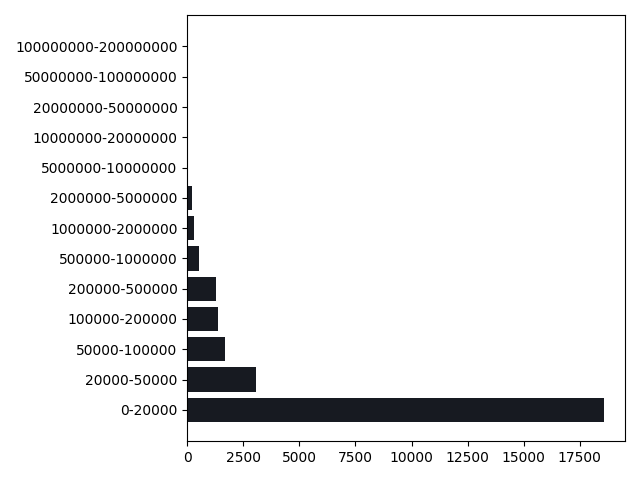
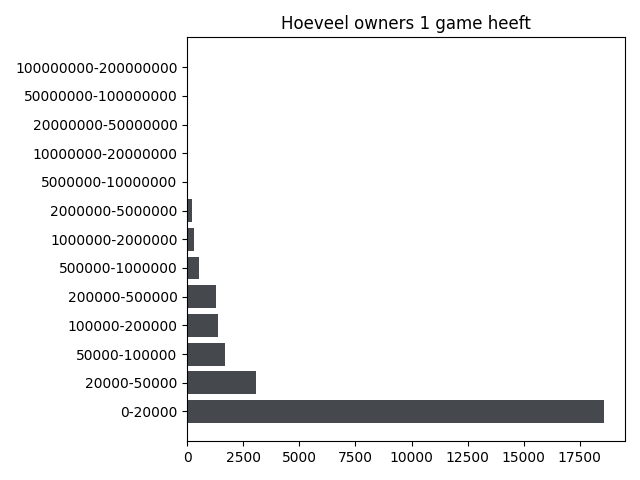
merge sort

Changed region(s): [[0.0312, 0.0625, 0.9688, 0.9062], [0.4375, 0.0312, 0.8438, 0.0625]]

diff --git a/Steam Data Dashboard.py b/Steam Data Dashboard.py
@@ -4,35 +4,34 @@ import matplotlib.pyplot as plt
 from PIL import ImageTk, Image
 
 Owners = fc.frequentieOwner(fc.list_int('owners'))
-plt.barh(list(Owners.keys()), Owners.values(), color='#171a21')
+plt.barh(list(Owners.keys()), Owners.values(), color='#171a21', alpha=0.8)
+plt.title('Hoeveel owners 1 game heeft')
 plt.tight_layout()
 plt.savefig('grafiekowner.png', dpi=100)
 
 def FreqOwner():
+    destroy()
     display.delete(1.0, END)
     Owners = fc.frequentieOwner(fc.list_int('owners'))
     for key, value in Owners.items():
-        display.insert(END, f'''{key} -> {value} \n''')
+        display.insert(END, f'''   {key} -> {value} \n''')
 
 def FreqLeeftijd():
+    destroy()
     display.delete(1.0, END)
     Leeftijd = fc.frequentieLeeftijd(fc.list_int('required_age'))
     for key, value in Leeftijd.items():
-        display.insert(END, f'''{key} -> {value} \n''')
-
-def open_imgleeftijd():
-    DestroyButton.place(x=50, y=550, width=200)
+        display.insert(END, f'''  {key} -> {value} \n''')
 
 def open_imgowner():
     panel.place(x=250, y=85)
-    DestroyButton.place(x=50, y=550, width=200)
 
 def destroy():
     panel.place_forget()
-    DestroyButton.place_forget()
 
 
 def search():
+    destroy()
     display.delete(1.0, END)
     zoekwoord = str(Search.get())
     naamlijst = (fc.search_data(zoekwoord))
@@ -56,34 +55,40 @@ Negatieve reviews: {data[7]} \n
 
 
 def toonOwners():
+    destroy()
     display.delete(1.0, END)
-    sortedlist = fc.insertionSort(fc.list_data('owners'))
+    sortedlist = fc.mergeSort(fc.list_data('owners'))
     for index in sortedlist:
         display.insert(END, f'''{index[0]} - {index[1]}\n''')
 
 def toonPrijs():
+    destroy()
     display.delete(1.0, END)
-    sortedlist = fc.insertionSort(fc.list_data('price'))
+    sortedlist = fc.mergeSort(fc.list_data('price'))
     for index in sortedlist:
         display.insert(END, f'''€{index[0]} - {index[1]} \n''')
 
 def GemiddeldePrijs():
+    destroy()
     display.delete(1.0, END)
     gemPrijs = fc.gemiddelde(fc.list_int('price'))
     afgerond = round(gemPrijs, 2)
     display.insert(END, f'''De gemiddelde prijs van games : €{afgerond} \n''')
 
 def RangePrijs():
+    destroy()
     display.delete(1.0, END)
     RangePrijs = fc.Rng(fc.list_int('price'))
     display.insert(END, f'''De Range van prijzen : {RangePrijs} \n''')
 
 def MediaanPrijs():
+    destroy()
     display.delete(1.0, END)
     MediaanPrijs = fc.mediaan(fc.list_int('price'))
     display.insert(END, f'''De Mediaan van prijzen : €{MediaanPrijs} \n''')
 
 def modusLeeftijd():
+    destroy()
     display.delete(1.0, END)
     values = list(fc.frequentieLeeftijd(fc.list_int('required_age')).values())
     hoogsteValue = max(values)
@@ -94,6 +99,7 @@ def modusLeeftijd():
     display.insert(END, f'''De Mediaan van het minimum leeftijd = {modi} \n''')
 
 def variatieLeeftijd():
+    destroy()
     display.delete(1.0, END)
     gemideld = fc.gemiddelde(fc.list_int('required_age'))
     samen = []
@@ -152,8 +158,6 @@ buttonModusleeftijd = Button(master=root, text='Modus minimum Leeftijd',backgrou
 buttonModusleeftijd.place(x=50, y=460, width=200)
 buttonVarleeftijd = Button(master=root, text='Variatie minimum Leeftijd',background='#171a21', foreground='#FFFFFF', command=variatieLeeftijd)
 buttonVarleeftijd.place(x=50, y=490, width=200)
-
-DestroyButton = Button(master=root, text='Destroy',background='#171a21', foreground='#FFFFFF', command=destroy)
 
 img = Image.open("grafiekowner.png")
 img = img.resize((650, 500), Image.ANTIALIAS)

diff --git a/functies.py b/functies.py
@@ -24,14 +24,54 @@ def list_int(key):
         list.append(getal)
     return list
 
-def insertionSort(list):
-    for index in range(1, len(list)):
-        key = list[index]
-        j = index - 1
-        while j >= 0 and key < list[j]:
-            list[j + 1] = list[j]
-            j -= 1
-        list[j + 1] = key
+# def insertionSort(list):
+#     for index in range(1, len(list)):
+#         key = list[index]
+#         j = index - 1
+#         while j >= 0 and key < list[j]:
+#             list[j + 1] = list[j]
+#             j -= 1
+#         list[j + 1] = key
+#     return list
+
+def mergeSort(list):
+    if len(list) > 1:
+        #sorteer lijst in 2 helften
+        mid = len(list) // 2
+        links = list[:mid]
+        rechts = list[mid:]
+        #sorteer linker helft
+        mergeSort(links)
+        #sorteer rechter helft
+        mergeSort(rechts)
+
+        #variabelen bepalen
+        lenLinks = len(links)
+        lenRechts = len(rechts)
+        linksIter = 0
+        rechtsIter= 0
+        mainlistIterator= 0
+        
+        #kopiert data van Linker en Rechter list
+        while linksIter < lenLinks and rechtsIter < lenRechts:
+            if links[linksIter] < rechts[rechtsIter]:
+                list[mainlistIterator] = links[linksIter]
+                linksIter += 1
+            else:
+                list[mainlistIterator] = rechts[rechtsIter]
+                rechtsIter += 1
+            mainlistIterator += 1
+
+        #checkt of er variabnele over zijn
+        while linksIter < lenLinks:
+            list[mainlistIterator] = links[linksIter]
+            linksIter += 1
+            mainlistIterator += 1
+
+        while rechtsIter < lenRechts:
+            list[mainlistIterator] = rechts[rechtsIter]
+            rechtsIter += 1
+            mainlistIterator += 1
     return list
 
 
